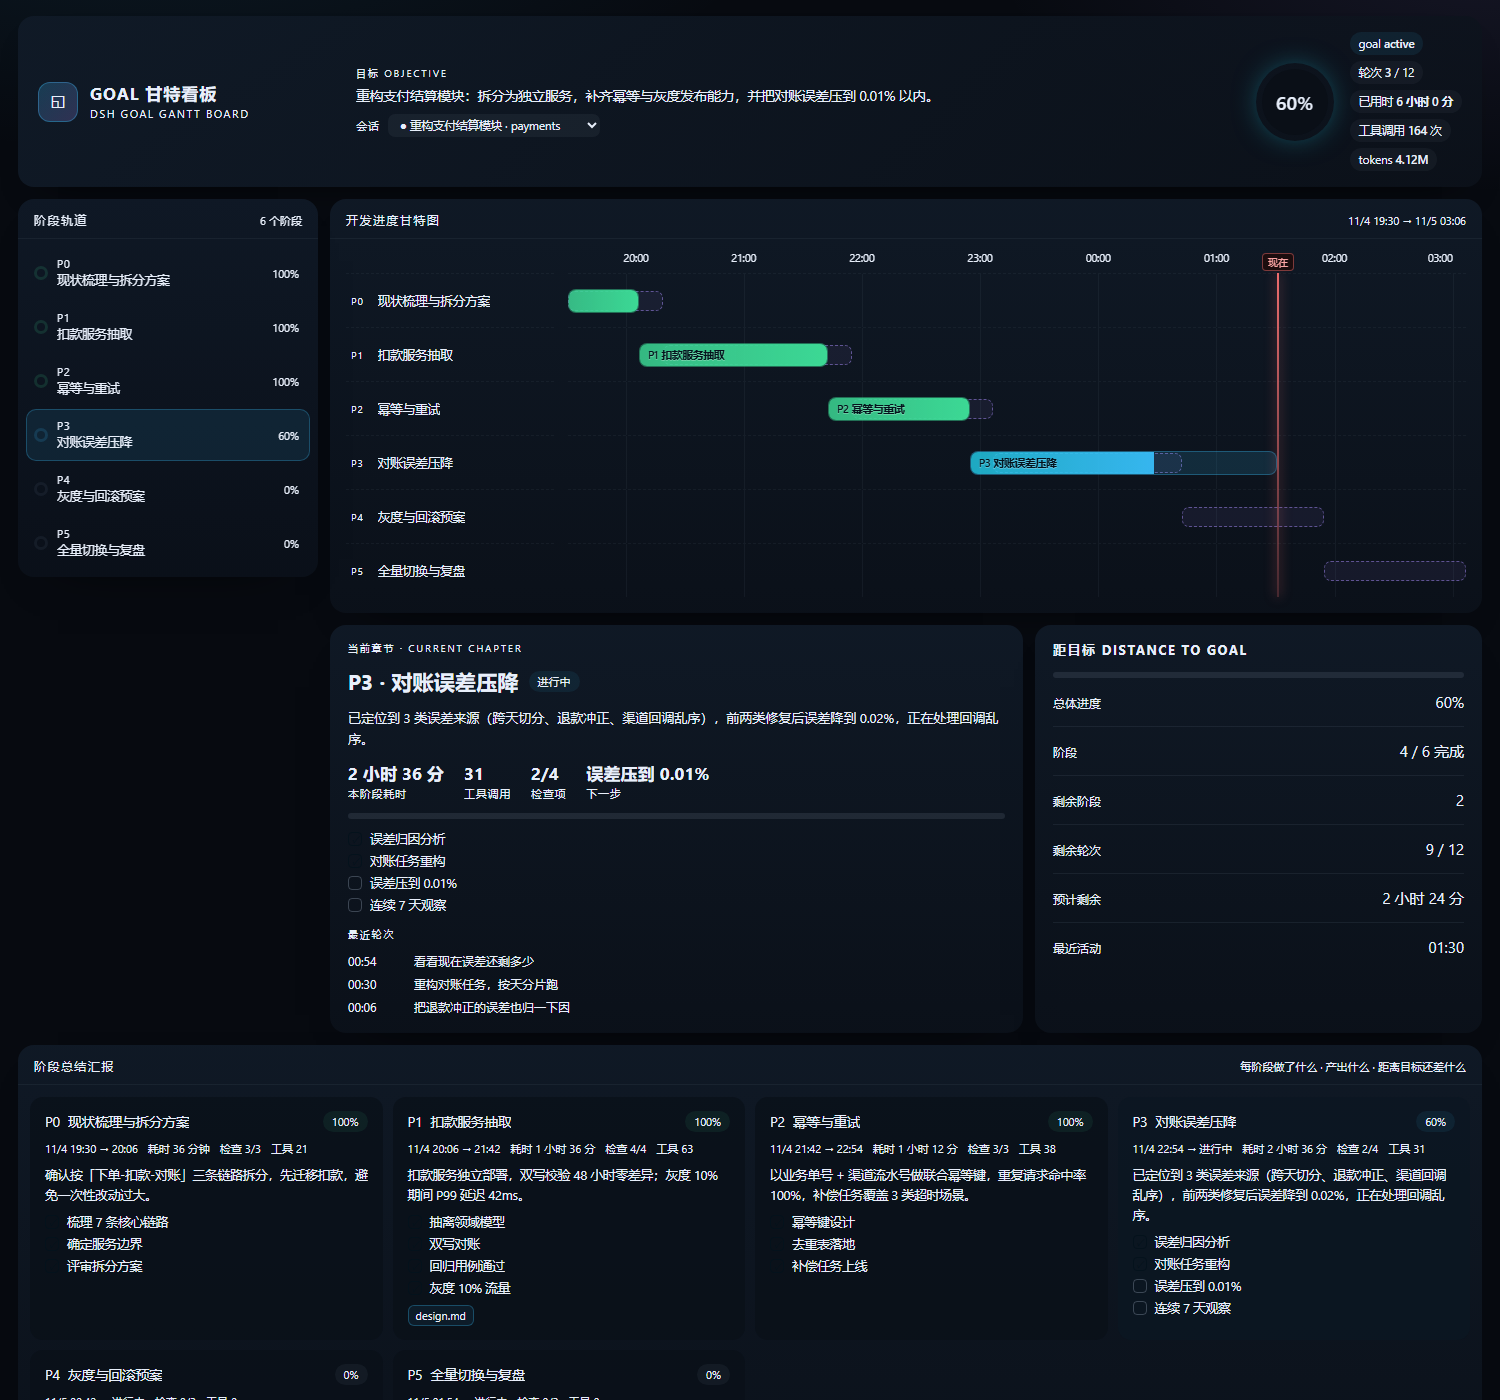
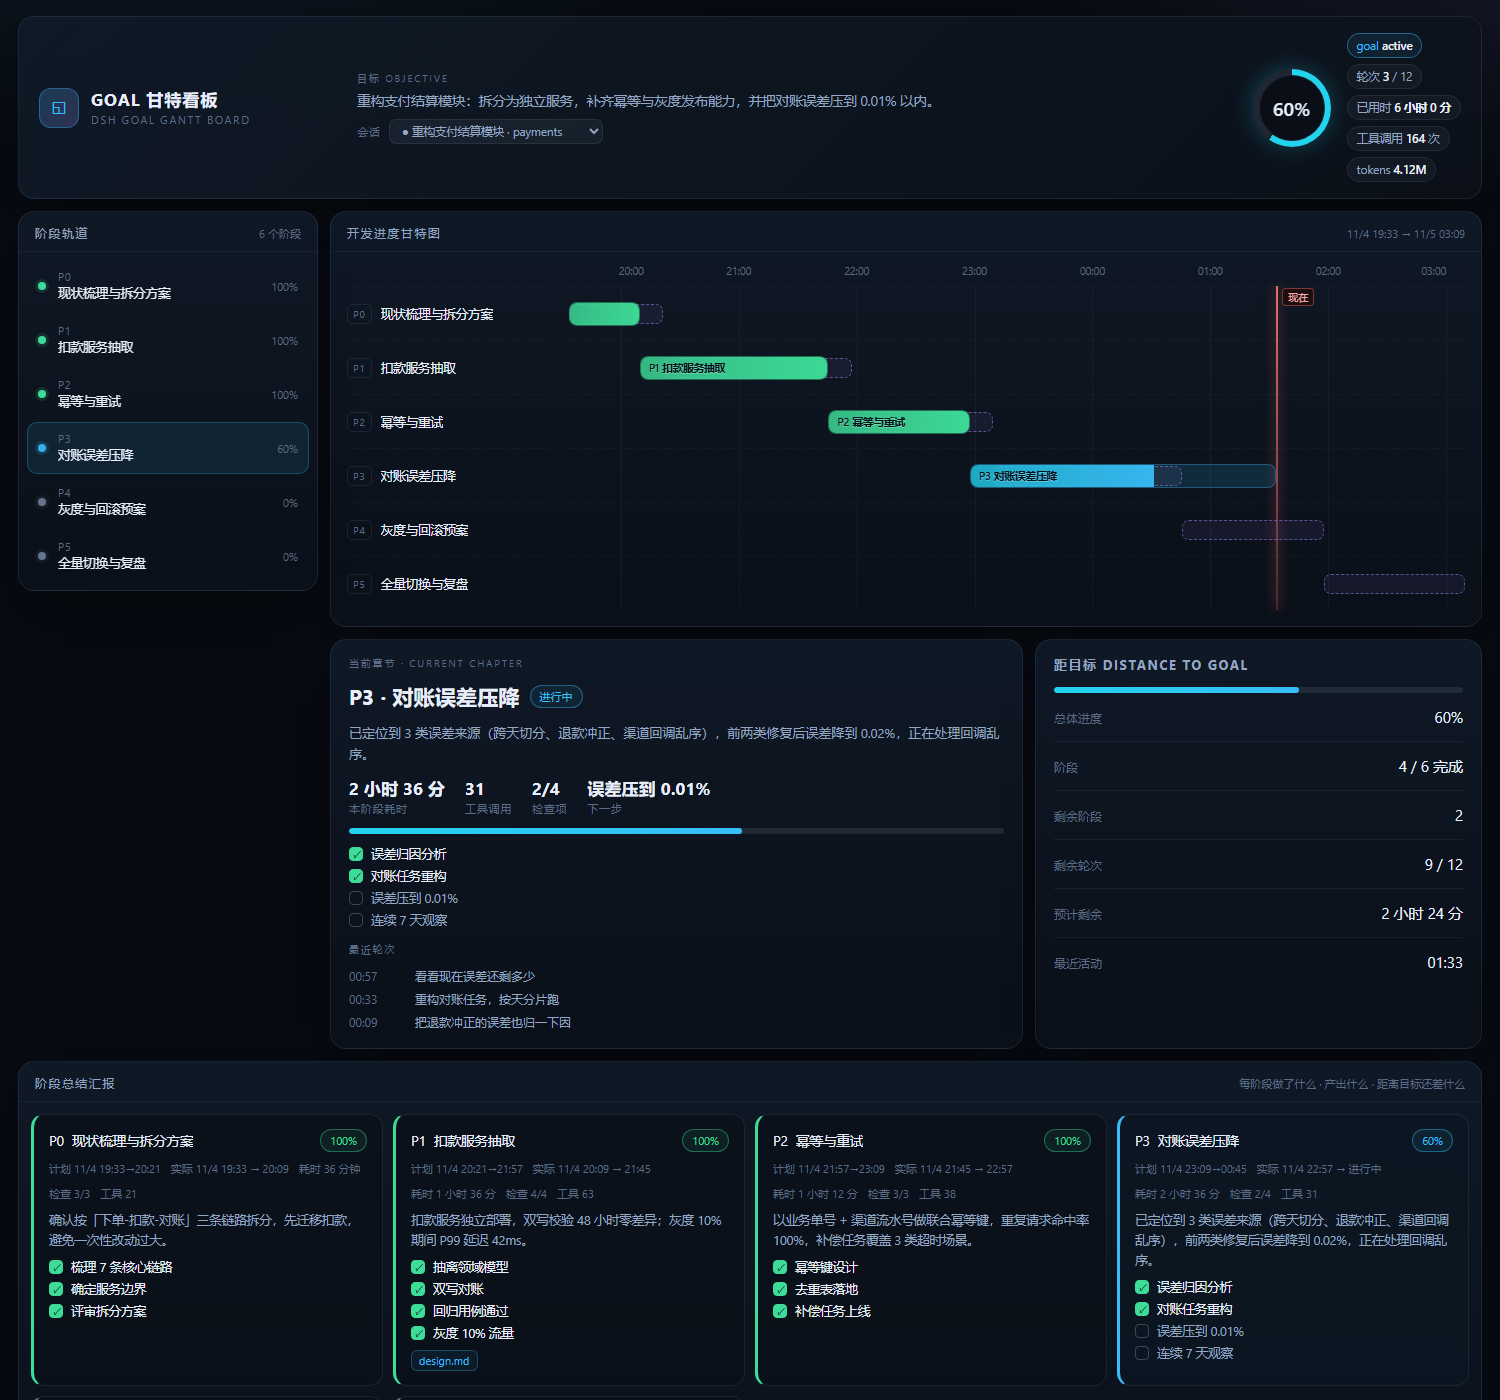
fix: stable re-render, chapter fallback and perf
- only repaint when the content fingerprint changes; otherwise move the now
  marker and footer clock in place (no more scroll jump / tooltip flicker)
- 'current chapter' falls back to the next pending phase instead of a finished one
- phase cards show planned and actual windows separately
- turn timestamps include the date when not today
- session log discovery accepts any session.vN.jsonl(.zstd), preferring the newest
- cache projection records by mtime+size (warm build: 5ms -> 1ms)
- CSS variables also scoped to .app so Shadow DOM keeps the palette
- narrower rail / responsive layout below 1200px, pending bar label contrast
- client caches board.css / board.js across session switches
- tests: fingerprint stability, asset route + traversal guard

diff --git a/lib/assets/board.js b/lib/assets/board.js
@@ -42,6 +42,12 @@
     return fmtDate(a) + ' ' + fmtClock(a) + ' → ' + (sameDay ? '' : fmtDate(b) + ' ') + fmtClock(b);
   }
 
+  function fmtStamp(ts) {
+    if (!ts) return '—';
+    var sameDay = new Date(ts).toDateString() === new Date().toDateString();
+    return (sameDay ? '' : fmtDate(ts) + ' ') + fmtClock(ts);
+  }
+
   function fmtTokens(n) {
     if (n >= 1e6) return (n / 1e6).toFixed(2) + 'M';
     if (n >= 1e3) return (n / 1e3).toFixed(1) + 'k';
@@ -203,8 +209,11 @@
 
   function renderChapter(d) {
     var active = d.phases.filter(function (p) { return p.status === 'active'; })[0];
+    var next = d.phases.filter(function (p) { return p.status === 'pending'; })[0];
     var last = d.phases.filter(function (p) { return p.startedAt; }).slice(-1)[0];
-    var p = active || last;
+    var p = active || next || last;
+    var kicker = active ? '当前章节 · CURRENT CHAPTER'
+      : (next ? '下一章节 · NEXT CHAPTER' : '最近章节 · LAST CHAPTER');
     var host = document.getElementById('chapter');
 
     if (!p) {
@@ -215,7 +224,7 @@
     var doneChecks = p.checks.filter(function (c) { return c.done; }).length;
 
     var turns = (d.recentTurns || []).slice().reverse().map(function (t) {
-      return '<div class="turn"><time>' + esc(fmtClock(t.time)) + '</time><span title="' + esc(t.prompt) + '">' +
+      return '<div class="turn"><time>' + esc(fmtStamp(t.time)) + '</time><span title="' + esc(t.prompt) + '">' +
         esc(t.prompt || '（无输入）') + '</span></div>';
     }).join('');
 
@@ -225,7 +234,7 @@
     }).join('') + '</div>' : '';
 
     host.innerHTML =
-      '<div class="ckicker">当前章节 · CURRENT CHAPTER</div>' +
+      '<div class="ckicker">' + kicker + '</div>' +
       '<div class="chead"><h2>' + esc(p.id + ' · ' + p.title) + '</h2><span class="badge ' + st.cls + '">' + st.text + '</span></div>' +
       '<p>' + esc(p.summary || p.desc || '暂无阶段说明。') + '</p>' +
       '<div class="kmeter">' +
@@ -286,7 +295,9 @@
       return '<div class="card ' + st.cls + '" data-card="' + esc(p.id) + '">' +
         '<div class="ctop"><div class="ctitle"><span class="gid">' + esc(p.id) + '</span><span>' + esc(p.title) + '</span></div>' +
         '<span class="badge ' + st.cls + '">' + (p.progress || 0) + '%</span></div>' +
-        '<div class="meta"><span>' + esc(fmtRange(p.startedAt || p.plannedStart, p.endedAt || p.endedAt)) + '</span>' +
+        '<div class="meta">' +
+        (p.plannedStart && p.plannedEnd ? '<span>计划 ' + esc(fmtDate(p.plannedStart) + ' ' + fmtClock(p.plannedStart) + '→' + fmtClock(p.plannedEnd)) + '</span>' : '') +
+        (p.startedAt ? '<span>实际 ' + esc(fmtRange(p.startedAt, p.endedAt)) + '</span>' : '') +
         (p.durationMs ? '<span>耗时 ' + esc(fmtDur(p.durationMs)) + '</span>' : '') +
         '<span>检查 ' + doneChecks + '/' + p.checks.length + '</span>' +
         (p.activity ? '<span>工具 ' + p.activity.toolCalls + '</span>' : '') + '</div>' +
@@ -360,13 +371,32 @@
     document.title = ((d.board && d.board.title) || 'GOAL 看板') + ' · ' + (d.overall || 0) + '%';
   }
 
+  /* 只更新随时间移动的部分：现在线 + 页脚时间，不重建整页 DOM */
+  function tickTemporal(next) {
+    DATA = next;
+    window.__BOARD__ = next;
+    var from = next.timeline.from, to = next.timeline.to, now = next.timeline.now;
+    var line = document.querySelector('.nowline');
+    if (line) {
+      if (now >= from && now <= to) {
+        line.style.display = '';
+        line.style.left = (((now - from) / Math.max(to - from, 60000)) * 100).toFixed(3) + '%';
+      } else {
+        line.style.display = 'none';
+      }
+    }
+    renderFoot(next);
+  }
+
   function poll() {
     var sid = currentSessionId();
     var url = '/api/goal-board' + (sid ? '?session=' + encodeURIComponent(sid) : '');
     fetch(url, { cache: 'no-store' })
       .then(function (r) { return r.ok ? r.json() : Promise.reject(r.status); })
       .then(function (next) {
-        if (!DATA || next.generatedAt !== DATA.generatedAt) render(next);
+        /* 指纹没变 = 只有时间在走，不重绘 */
+        if (!DATA || next.signature !== DATA.signature) render(next);
+        else tickTemporal(next);
       })
       .catch(function () { /* 静默：下次再试 */ });
   }

diff --git a/lib/board-data.js b/lib/board-data.js
@@ -46,6 +46,19 @@ const readJson = (file) => {
   try { return JSON.parse(fs.readFileSync(file, 'utf8')); } catch { return null; }
 };
 
+/* 投影缓存文件解析结果缓存：mtime + size 不变就复用 */
+const recordCache = new Map();
+
+function readRecord(file) {
+  let stat = null;
+  try { stat = fs.statSync(file); } catch { return null; }
+  const hit = recordCache.get(file);
+  if (hit && hit.mtimeMs === stat.mtimeMs && hit.size === stat.size) return hit.record;
+  const record = readJson(file)?.record;
+  if (record) recordCache.set(file, { mtimeMs: stat.mtimeMs, size: stat.size, record });
+  return record;
+}
+
 /* ------------------------------------------------------------------ 会话 */
 
 export function listSessions(dataRoot) {
@@ -54,7 +67,7 @@ export function listSessions(dataRoot) {
   const out = [];
   for (const file of fs.readdirSync(dir)) {
     if (!file.endsWith('.json')) continue;
-    const record = readJson(path.join(dir, file))?.record;
+    const record = readRecord(path.join(dir, file));
     const identity = record?.identity;
     if (!identity?.cwd) continue;
     const rows = record.rows || {};
@@ -107,12 +120,26 @@ export function decompressAllFrames(buf) {
   return Buffer.concat(parts);
 }
 
+const LOG_FILE = /^session\.v(\d+)\.jsonl(\.zstd)?$/;
+
 function findLogFile(dataRoot, cwd, sessionId) {
   const dirName = '--' + cwd.replace(/[^a-zA-Z0-9]+/g, '-') + '--';
   const variants = [sessionId, 'session-' + sessionId, sessionId.replace(/^session-/, '')];
-  for (const v of variants) {
-    const file = path.join(dataRoot, 'sessions', dirName, v, 'session.v4.jsonl.zstd');
-    if (fs.existsSync(file)) return file;
+  for (const variant of variants) {
+    const dir = path.join(dataRoot, 'sessions', dirName, variant);
+    let names = [];
+    try { names = fs.readdirSync(dir); } catch { continue; }
+    /* 取版本号最高的日志（兼容未来的 v5/v6），同版本优先压缩格式 */
+    const best = names
+      .map((name) => ({ name, match: LOG_FILE.exec(name) }))
+      .filter((x) => x.match)
+      .sort((a, b) => {
+        const va = Number(a.match[1]);
+        const vb = Number(b.match[1]);
+        if (va !== vb) return vb - va;
+        return (b.match[2] ? 1 : 0) - (a.match[2] ? 1 : 0);
+      })[0];
+    if (best) return path.join(dir, best.name);
   }
   return null;
 }
@@ -251,6 +278,33 @@ function autoPhases(events, goal, now) {
   }];
 }
 
+/* ------------------------------------------------------------ 内容指纹 */
+
+/**
+ * 看板内容的稳定指纹：只包含「会改变界面」的字段，
+ * 不含 generatedAt / now，用于让前端判断是否需要整页重绘。
+ */
+function fingerprint(model) {
+  const parts = [
+    model.session.id,
+    model.session.title,
+    model.mode,
+    model.goal ? [model.goal.phase, model.goal.objective, model.goal.roundsStarted, model.goal.maxGoalRounds].join('|') : '-',
+    model.phases
+      .map((p) => [p.id, p.status, p.progress, p.startedAt, p.endedAt, p.summary, p.desc,
+        p.checks.map((c) => (c.done ? 1 : 0)).join(''),
+        (p.deliverables || []).map((d) => d.label).join(',')].join('~'))
+      .join('|'),
+    model.sessions.map((s) => s.id + (s.hasGoal ? '*' : '')).join(','),
+  ].join('#');
+
+  let hash = 5381;
+  for (let i = 0; i < parts.length; i++) {
+    hash = ((hash * 33) ^ parts.charCodeAt(i)) >>> 0;
+  }
+  return hash.toString(36);
+}
+
 /* ---------------------------------------------------------------- 主函数 */
 
 export function buildBoard(dataRoot, opts = {}) {
@@ -345,7 +399,7 @@ export function buildBoard(dataRoot, opts = {}) {
   const remainingMs = pending.reduce(
     (sum, p) => sum + (p.plannedEnd && p.plannedStart ? p.plannedEnd - p.plannedStart : 0), 0);
 
-  return {
+  const model = {
     ok: true,
     generatedAt: now,
     mode,
@@ -396,4 +450,9 @@ export function buildBoard(dataRoot, opts = {}) {
       time: turnStarts.get(turn.turn) ?? null,
     })),
   };
+
+  model.signature = fingerprint(model);
+  return model;
 }
+
+

diff --git a/lib/assets/board.css b/lib/assets/board.css
@@ -1,6 +1,6 @@
 * { box-sizing: border-box; }
 
-:root {
+.app, :root {
   --bg: #070a10;
   --panel: #0c121b;
   --panel-2: #101a27;
@@ -231,6 +231,7 @@ main {
 .gbar.st-done .fill { background: linear-gradient(90deg, rgba(61, 220, 151, .8), rgba(61, 220, 151, .98)); }
 .gbar.st-pending { border-color: rgba(100, 116, 139, .4); background: rgba(100, 116, 139, .1); }
 .gbar.st-pending .fill { background: linear-gradient(90deg, rgba(100, 116, 139, .55), rgba(100, 116, 139, .8)); }
+.gbar.st-pending .lbl { color: #dbe4f0; text-shadow: none; }
 .gbar.st-blocked .fill { background: linear-gradient(90deg, #b91c1c, #f87171); }
 
 .nowline {
@@ -240,7 +241,7 @@ main {
   pointer-events: none; z-index: 3;
 }
 .nowline::before {
-  content: "现在"; position: absolute; top: -20px; left: 50%; transform: translateX(-50%);
+  content: "现在"; position: absolute; top: 2px; left: 6px;
   font-size: 10px; color: #fca5a5; background: rgba(30, 12, 12, .9);
   border: 1px solid rgba(248, 113, 113, .45); border-radius: 4px; padding: 1px 5px; white-space: nowrap;
 }
@@ -353,8 +354,13 @@ main {
 }
 
 @media (max-width: 1200px) {
-  main { grid-template-columns: 1fr; grid-template-areas: "gantt" "rail" "focus" "cards"; }
+  main { grid-template-columns: 1fr; grid-template-areas: "gantt" "focus" "rail" "cards"; }
   .rail-panel { position: static; }
+  .rail { flex-direction: row; overflow-x: auto; gap: 6px; padding: 8px; }
+  .rail-item { min-width: 190px; }
   .focus { grid-template-columns: 1fr; }
   .topbar { grid-template-columns: 1fr; }
+  .gaxis, .gbody { grid-template-columns: 150px minmax(0, 1fr); }
+  .glab { padding-right: 8px; }
+  .cards { grid-template-columns: repeat(auto-fill, minmax(280px, 1fr)); }
 }

diff --git a/lib/client.js b/lib/client.js
@@ -94,6 +94,19 @@ window.__ModuleLoader__.load({
 .gb-error b { color: #e8effb; }
 `;
 
+    /* CSS / 渲染器只取一次，切换会话时复用 */
+    const assetCache = { css: null, js: null };
+
+    async function loadAsset(name, key) {
+      if (assetCache[key]) return assetCache[key];
+      const text = await fetch("/goal-board/asset/" + name).then((r) => {
+        if (!r.ok) throw new Error(name + " " + r.status);
+        return r.text();
+      });
+      assetCache[key] = text;
+      return text;
+    }
+
     /**
      * 把一个看板实例挂到 host 上：
      * 取 CSS / 渲染器 / 数据 → 建 Shadow DOM → 用「作用域内的 document」执行渲染器。
@@ -111,8 +124,8 @@ window.__ModuleLoader__.load({
 
       try {
         const [css, js, model] = await Promise.all([
-          fetch("/goal-board/asset/board.css").then((r) => { if (!r.ok) throw new Error("css " + r.status); return r.text(); }),
-          fetch("/goal-board/asset/board.js").then((r) => { if (!r.ok) throw new Error("js " + r.status); return r.text(); }),
+          loadAsset("board.css", "css"),
+          loadAsset("board.js", "js"),
           fetch("/api/goal-board" + query).then((r) => r.json()),
         ]);
         if (state.disposed) return;

diff --git a/README.md b/README.md
@@ -17,6 +17,7 @@
 - **阶段总结汇报**：每阶段一张卡片 —— 摘要、检查项、产出物
 - **距目标面板**：剩余阶段、剩余轮次、预估剩余时间
 - **内嵌渲染**：作为 main 面板直接长在 DSH 里，Shadow DOM 隔离样式；也可一键新标签打开
+- **不闪、不跳**：内容指纹（signature）不变时只移动时间游标，不重建 DOM；阶段状态变化才重绘
 - **多会话切换**：页头下拉可直接切换到其它会话的 goal（● 表示该会话有 goal）
 - **零依赖、零构建**：只用 Node 内置模块，浏览器侧手写 bundle，装完即用
 - **完全离线**：只读本机会话文件，不发任何网络请求，不落任何数据
